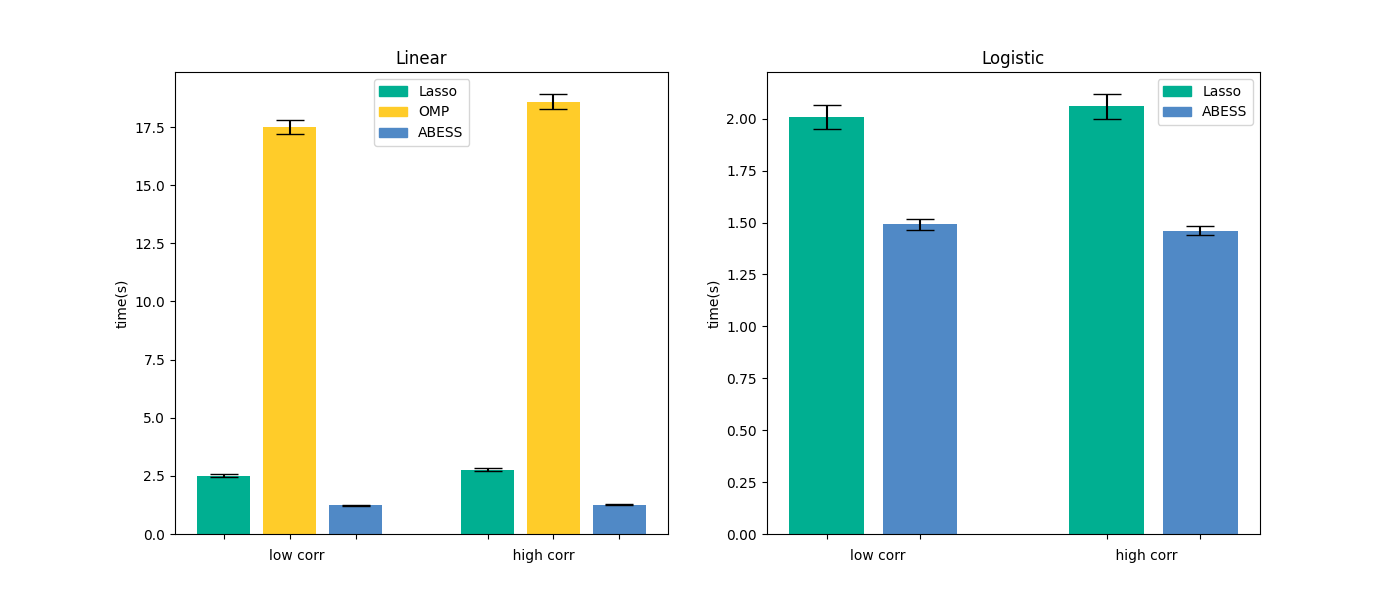
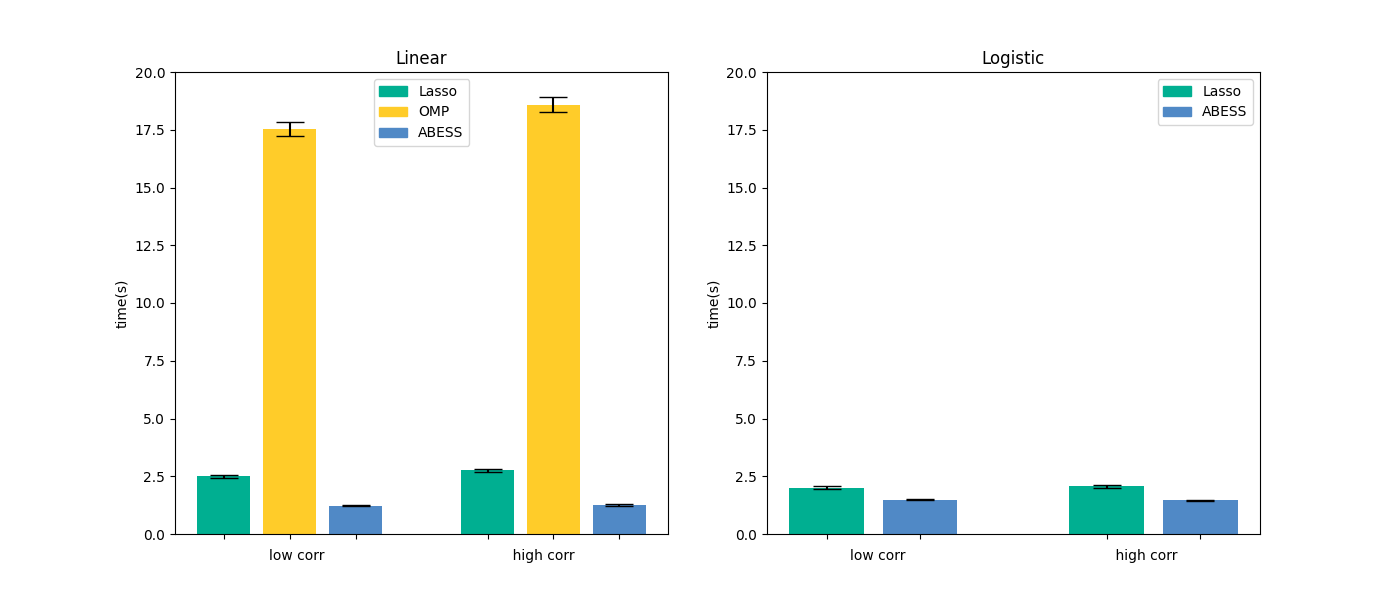
update timing figure on readthedoc

diff --git a/python/example/timings.py b/python/example/timings.py
@@ -36,7 +36,7 @@ plt.bar(x = [1, 2, 3, 5, 6, 7], height = temp[:, 0], yerr = temp[:, 1] * 2,
 plt.xlabel('low corr                                           high corr')
 plt.title('Linear')
 plt.ylabel('time(s)')
-# plt.ylim((0,10))
+plt.ylim((0,20))
 plt.legend(handles=[c1, c2, c3])
 # plt.savefig('./lm_time.png')
 
@@ -50,7 +50,7 @@ lm_time = plt.bar(x = [1, 2, 4, 5], height = temp[:, 0], yerr = temp[:, 1] * 2,
     capsize = 10, tick_label = '', color = color[0:2])
 plt.title('Logistic')
 plt.ylabel('time(s)')
-# plt.ylim((0, 10))
+plt.ylim((0, 20))
 plt.legend(handles=[c1, c3])
 plt.xlabel('low corr                                                high corr')
 # plt.savefig('./logi_time.png')
